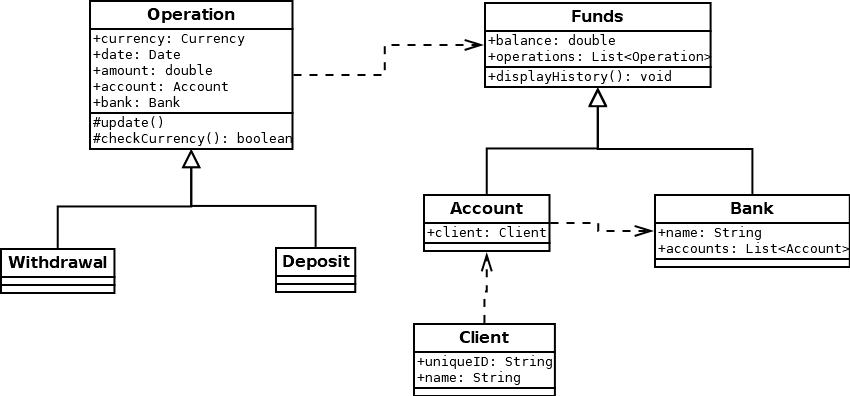
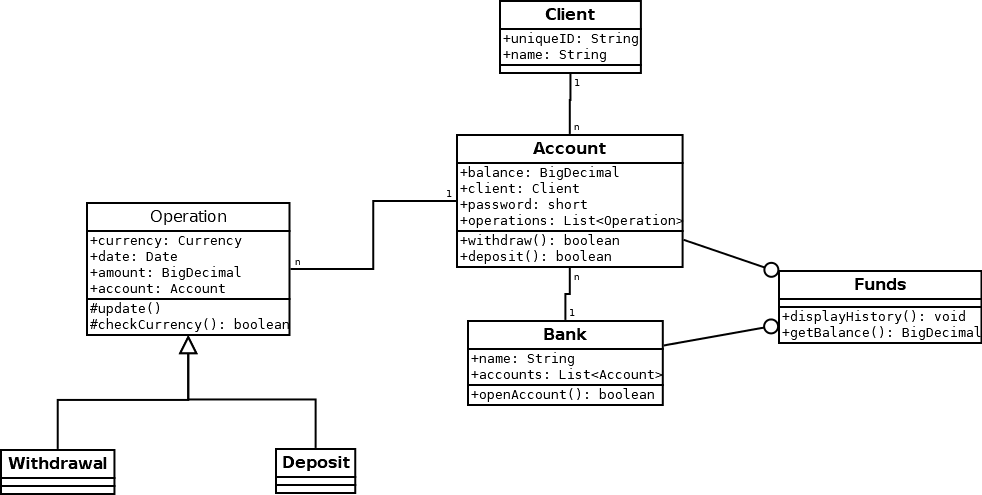
Operations not based on Bank anymore (since an account actually belongs to a bank)

Changed region(s): [[0.0, 0.0, 1.0, 1.0], [0.0, 0.8182, 0.1224, 1.0], [0.3976, 0.1818, 0.4282, 0.2121]]

diff --git a/BankAccount/src/tests/LaunchTests.java b/BankAccount/src/tests/LaunchTests.java
@@ -6,7 +6,6 @@ import java.util.Locale;
 
 import org.junit.Test;
 
-import bank.Account;
 import bank.Bank;
 import bank.Client;
 
@@ -15,9 +14,12 @@ public class LaunchTests {
 	Bank axileo = new Bank("Axileo");
 	Client julien = new Client("Julien");
 	Client charles = new Client("Charles");
-	Account first = new Account(julien, new BigDecimal("5E+3"), 8495);
-	Account second = new Account(charles, new BigDecimal(3582.16), 4565);
 	
+	public LaunchTests() {
+		axileo.openAccount(julien, new BigDecimal("5E+3"), 8495);
+		axileo.openAccount(charles, new BigDecimal(3582.16), 4565);
+	}
+
 	@Test
 	public void test() {
 		Currency currency = Currency.getInstance(Locale.FRANCE);
@@ -26,11 +28,10 @@ public class LaunchTests {
 	
 	@Test
 	public void launchTest() {
-		axileo.add(first);
-		axileo.add(second);
-		System.out.println(first.getBalance().floatValue());
-		System.out.println(second.getBalance().floatValue());
-		System.out.println(axileo.getBalance().floatValue());
+		axileo.accounts.parallelStream().forEach(a -> System.out.println(a));
+		System.out.println("Fonds de " + axileo.name + " : " + axileo.getBalance().floatValue());
+		
+		
 	}
 
 }

diff --git a/BankAccount/src/bank/Account.java b/BankAccount/src/bank/Account.java
@@ -1,20 +1,44 @@
 package bank;
 
 import java.math.BigDecimal;
+import java.util.LinkedList;
+import java.util.List;
 
-public class Account extends Funds {
+public class Account implements Funds {
 
-	Client client;
+	public Client client;
+	public BigDecimal balance;
 	int password;
-	
+	public List<Operation> operations = new LinkedList<>();
+
 	public Account(Client client, BigDecimal balance, int password) {
 		this.balance = balance;
 		this.client = client;
 		this.password = password;
 	}
 
+	public void withdraw(Withdrawal withdrawal) {
+		if (withdrawal.update()) {
+			operations.add(withdrawal);
+		} else {
+			System.err.println(client.name + ": withdrawal failure.");
+		}
+	}
+
+	@Override
 	public BigDecimal getBalance() {
 		return balance;
 	}
-	
+
+	@Override
+	public String toString() {
+		return "Account [" + client + ", balance=" + balance.floatValue() + "]";
+	}
+
+	@Override
+	public void displayHistory() {
+		// TODO Auto-generated method stub
+		
+	}
+
 }

diff --git a/BankAccount/src/bank/Operation.java b/BankAccount/src/bank/Operation.java
@@ -16,14 +16,11 @@ public abstract class Operation {
 	Date date;
 	BigDecimal amount;
 	Account account;
-	Bank bank;
-
 	
-	public Operation(BigDecimal amount, Account account, Bank bank, Currency currency) {
+	public Operation(BigDecimal amount, Account account, Currency currency) {
 		this.date = new Date();
 		this.amount = amount;
 		this.account = account;
-		this.bank = bank;
 		if (!checkCurrency(currency)) {
 			throw new UnsupportedOperationException("Not able to handle '" + currency.getDisplayName() + "' operations yet.");
 		}
@@ -31,11 +28,10 @@ public abstract class Operation {
 		if (!called) {
 			throw new IllegalStateException("super() not applied from derived class");
 		}
-		update();
 	}
 	
-	public Operation(BigDecimal amount, Account account, Bank bank) {
-		this(amount, account, bank, BASE_CURRENCY);
+	public Operation(BigDecimal amount, Account account) {
+		this(amount, account, BASE_CURRENCY);
 	}
 	
 	private void init() {

diff --git a/BankAccount/src/bank/Bank.java b/BankAccount/src/bank/Bank.java
@@ -4,21 +4,27 @@ import java.math.BigDecimal;
 import java.util.HashSet;
 import java.util.Set;
 
-public class Bank extends Funds {
+public class Bank implements Funds {
 
-	String name;
-	Set<Account> accounts = new HashSet<>();
+	public String name;
+	public Set<Account> accounts = new HashSet<>();
 
 	public Bank(String name) {
 		this.name = name;
 	}
 
-	public boolean add(Account account) {
-		return accounts.add(account);
-	}
-	
+	@Override
 	public BigDecimal getBalance() {
 		return accounts.stream().map(Account::getBalance).reduce(BigDecimal.ZERO, BigDecimal::add);
 	}
 
+	@Override
+	public void displayHistory() {
+		System.out.println("Displaying " + name + " history:");
+		accounts.forEach(Account::displayHistory);
+	}
+
+	public boolean openAccount(Client client, BigDecimal balance, int password) {
+		return accounts.add(new Account(client, balance, password));
+	}
 }

diff --git a/BankAccount/src/bank/Withdrawal.java b/BankAccount/src/bank/Withdrawal.java
@@ -4,14 +4,15 @@ import java.math.BigDecimal;
 
 public class Withdrawal extends Operation {
 
-	public Withdrawal(BigDecimal amount, Account account, Bank bank) {
-		super(amount, account, bank);
+	public Withdrawal(BigDecimal amount, Account account) {
+		super(amount, account);
 	}
 
 	@Override
 	protected boolean update() {
 		if (account.balance.compareTo(amount) == 1) {
 			account.balance.subtract(amount);
+			account.operations.add(this);
 			return true;
 		}
 		return false;

diff --git a/BankAccount/src/bank/Funds.java b/BankAccount/src/bank/Funds.java
@@ -4,15 +4,10 @@ import java.math.BigDecimal;
 import java.util.LinkedList;
 import java.util.List;
 
-public abstract class Funds {
+public interface Funds {
 
-	protected BigDecimal balance;
-	public List<Operation> operations = new LinkedList<>();
+	void displayHistory();
 	
-	void displayHistory() {
-		// TODO
-	}
-	
-	abstract BigDecimal getBalance();
+	BigDecimal getBalance();
 	
 }

diff --git a/BankAccount/src/bank/Deposit.java b/BankAccount/src/bank/Deposit.java
@@ -4,8 +4,8 @@ import java.math.BigDecimal;
 
 public class Deposit extends Operation {
 
-	public Deposit(BigDecimal amount, Account account, Bank bank) {
-		super(amount, account, bank);
+	public Deposit(BigDecimal amount, Account account) {
+		super(amount, account);
 		// TODO Auto-generated constructor stub
 	}
 

diff --git a/BankAccount/src/bank/Client.java b/BankAccount/src/bank/Client.java
@@ -5,11 +5,15 @@ import java.util.UUID;
 public class Client {
 
 	String uniqueID = UUID.randomUUID().toString();
-	String name;
+	public String name;
 	
 	public Client(String name) {
 		super();
 		this.name = name;
 	}
 	
+	@Override
+	public String toString() {
+		return "name=" + name;
+	}
 }
